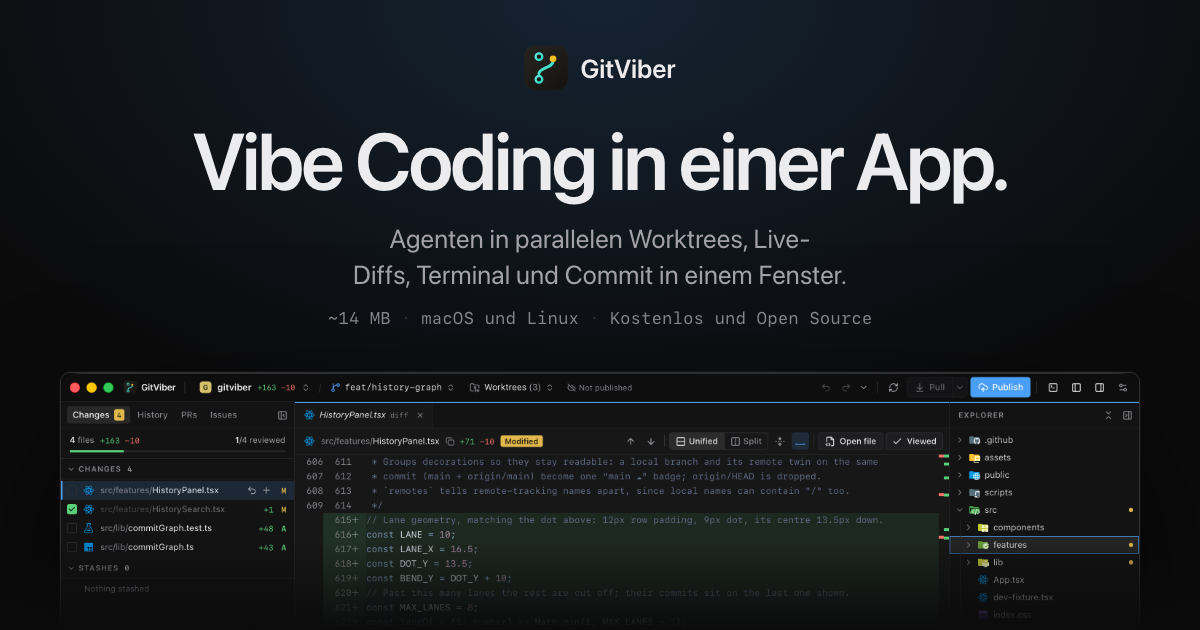
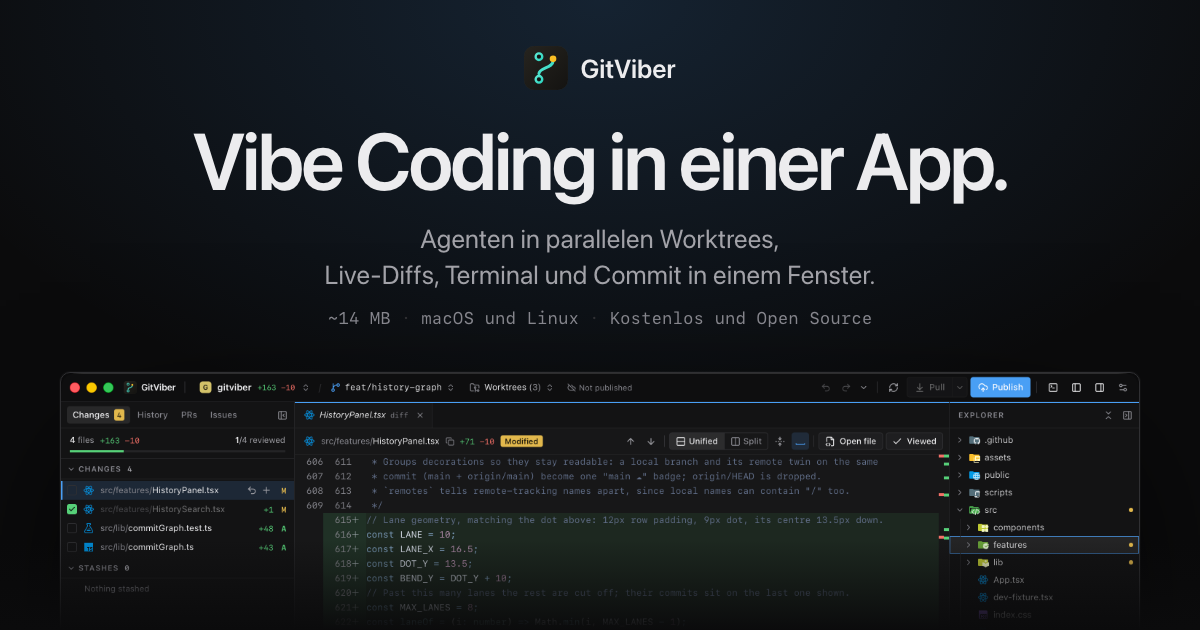
fix(site): keep preview taglines from breaking inside words
German split "Live-Diffs" at its hyphen and Japanese split 差分; hyphenated words now stay
on one line and Japanese breaks between phrases, as on the site.

Changed region(s): [[0.2775, 0.3619, 0.74, 0.4524]]

diff --git a/site/scripts/og/card.html b/site/scripts/og/card.html
@@ -77,6 +77,14 @@
     line-height: 1.4;
     text-wrap: balance;
   }
+  /* Japanese has no spaces: break between phrases, not inside a word (as the site does). */
+  :lang(ja) :is(h1, .tagline) {
+    word-break: auto-phrase;
+  }
+  /* A hyphenated word ("Live-Diffs") stays on one line. */
+  .nowrap {
+    white-space: nowrap;
+  }
   .facts {
     display: flex;
     gap: 10px;
@@ -193,6 +201,9 @@
     };
 
     /** Shrinks the headline until it fits in `lines` lines, so longer translations still fit. */
+    const keepHyphenated = (text) =>
+      text.split(/(\S+-\S+)/).map((part, i) => (i % 2 ? el("span", { className: "nowrap" }, part) : part));
+
     function fit(h1, lines) {
       let size = parseFloat(getComputedStyle(h1).fontSize);
       const lineHeight = () => parseFloat(getComputedStyle(h1).lineHeight);
@@ -219,7 +230,7 @@
           { className: "copy" },
           el("div", { className: "brand" }, el("img", { src: icon, alt: "" }), "GitViber"),
           h1,
-          el("p", { className: "tagline" }, tagline),
+          el("p", { className: "tagline" }, ...keepHyphenated(tagline)),
           el("p", { className: "facts" }, ...facts.map((f) => el("span", {}, f))),
         );
         const stage = el(
